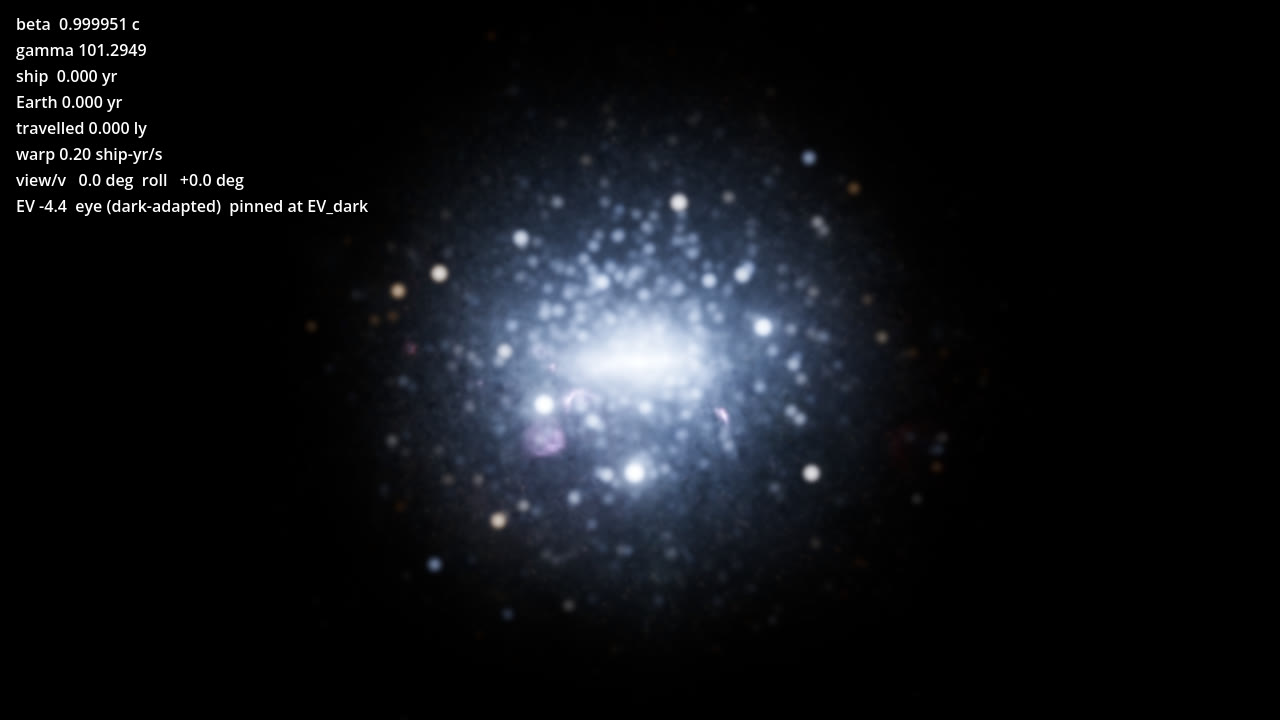
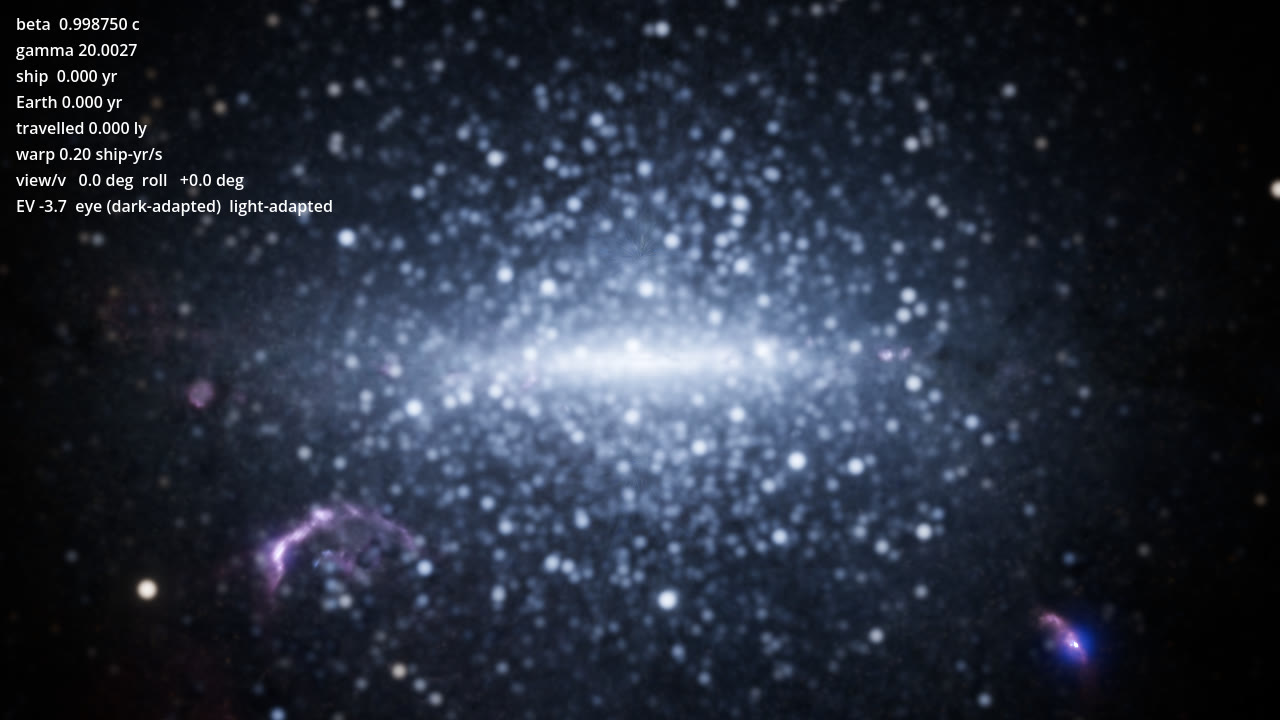
site: cmb clip regenerated from main (gamma 20 -> 707); M1.7/M1.8 no longer "in review"
- tools/site_movie.gd: the cmb sweep starts at gamma 20 now that the ring is
  fixed (#88); boost steps 10x finer (2e-9 ship-yr) so low-gamma frames no
  longer repeat. Rendered from main with make site-media CLIPS=cmb; every
  frame checked on contact sheets, no ring.
- media.json: new content-addressed cmb MP4/WebM in the public bucket; new
  poster. Gallery CMB stills re-cut from the same frames (gamma 275, 707).
- Landing, gallery, physics, intro, bubble and roadmap pages: M1.7 and M1.8
  shown as merged; "In review" pills removed.

Claude-Session: https://claude.ai/code/session_01Dvti2W94QfXDcYLoyzr7n3

diff --git a/website/src/pages/index.js b/website/src/pages/index.js
@@ -212,17 +212,17 @@ const SHOWCASE = [
     clip: 'cmb',
     icon: Sparkles,
     title: 'The cosmic background, set on fire',
-    status: <Pill kind="review">In review (M1.8)</Pill>,
+    status: <Pill kind="done">Runs today</Pill>,
     body: (
       <>
         <p>
           Push past γ 100 and something appears dead ahead that no star can explain: the 2.7 K
           microwave background, Doppler shifted into the visible. It shows faintly from γ ≈ 146,
-          glows orange at γ ≈ 295 (about 1,600 K) and burns at 3,853.7 K at γ 707, the cruise cap.
+          glows orange at γ ≈ 275 (1,500 K) and burns at 3,853.7 K at γ 707, the cruise cap.
         </p>
         <p className={styles.small}>
-          Forward view through a 20° lens, γ 100 to 707 on a committed journey near Sol. This clip
-          comes from the forward-CMB work in pull request #79, not yet merged.
+          Forward view through a 20° lens, γ 20 to 707 on a committed journey near Sol: first the
+          stars crowd into a shrinking blue ball, then the CMB takes over the bow.
         </p>
       </>
     ),
@@ -382,7 +382,7 @@ function BuiltWithAilang() {
 }
 
 function GalleryTeaser() {
-  const picks = ['sky-099c.jpg', 'cmb-gamma-orange.jpg', 'map-commit.jpg', 'milky-way-destarred.jpg', 'sky-091c.jpg', 'map-transit.jpg'];
+  const picks = ['sky-099c.jpg', 'cmb-gamma-275.jpg', 'map-commit.jpg', 'milky-way-destarred.jpg', 'sky-091c.jpg', 'map-transit.jpg'];
   const items = picks.map((f) => GALLERY.find((g) => g.file === f)).filter(Boolean);
   const base = useBaseUrl('/img/gallery/');
   return (
@@ -412,7 +412,7 @@ function GalleryTeaser() {
 
 const MILESTONES = [
   ['M0', 'Spike', 'done', 'AILANG sim + Godot starfield, tested relativity'],
-  ['M1', 'The relativistic sky', 'progress', '335k stars, Milky Way, exposure; CMB disc in review'],
+  ['M1', 'The relativistic sky', 'progress', '335k stars, Milky Way, exposure, forward CMB; performance bar left'],
   ['M2', 'The journey core', 'done', 'Planner, commit, two clocks, deterministic replay'],
   ['M3', 'Black holes', 'planned', 'Shadow, lensing, Einstein rings, checked against GR'],
   ['M4', 'First playable journey', 'planned', 'Plan, commit, live through it, arrive changed'],

diff --git a/website/src/data/gallery.js b/website/src/data/gallery.js
@@ -1,6 +1,6 @@
 // Gallery stills (static/img/gallery/). Every image is a real capture from the
-// game; captions say what produced it and what it shows. `status` marks
-// captures from work still in review, so nothing reads as shipped early.
+// game; captions say what produced it and what it shows. An optional `status`
+// marks captures from work still in review, so nothing reads as shipped early.
 const GALLERY = [
   {
     file: 'sky-rest.jpg',
@@ -31,20 +31,18 @@ const GALLERY = [
     group: 'sky',
   },
   {
-    file: 'cmb-gamma-orange.jpg',
-    title: 'The forward CMB disc at γ 295',
+    file: 'cmb-gamma-275.jpg',
+    title: 'The forward CMB disc at γ 275',
     caption:
-      'The 2.7 K cosmic microwave background, Doppler shifted to about 1,600 K straight ahead, glows orange in the bow. The eye has light-adapted (EV +1.7). From the forward-CMB work in review (M1.8, PR #79).',
+      'The 2.7 K cosmic microwave background, Doppler shifted to 1,500 K straight ahead (check value HB-67), glows orange in the bow among the last crowded stars. The eye has light-adapted (EV +0.2).',
     group: 'cmb',
-    status: 'In review',
   },
   {
     file: 'cmb-gamma-707.jpg',
     title: 'γ 707, the cruise cap: the CMB at 3,854 K',
     caption:
-      'At 0.999999c the forward CMB is a 3,853.7 K blackbody (check value HB-63), brighter than every star around it. In review (M1.8, PR #79).',
+      'At 0.999999c the forward CMB is a 3,853.7 K blackbody (check value HB-63), brighter than every star around it.',
     group: 'cmb',
-    status: 'In review',
   },
   {
     file: 'milky-way-destarred.jpg',
@@ -85,9 +83,8 @@ const GALLERY = [
     file: 'map-overview.jpg',
     title: 'The neighbourhood, from the real catalogues',
     caption:
-      'The galaxy map drawn from the binary catalogue tiers, Sol at the centre. From the catalogue switch in review (M1.7, PR #81).',
+      'The galaxy map drawn from the binary catalogue tiers, Sol at the centre (the M1.7 catalogue switch).',
     group: 'map',
-    status: 'In review',
   },
 ];
 

diff --git a/website/src/pages/gallery.js b/website/src/pages/gallery.js
@@ -11,7 +11,7 @@ import styles from './gallery.module.css';
 const CLIPS = [
   {name: 'voyage', title: 'Rest to 0.99c, looking forward', text: 'A 1 g burn through the AILANG simulation, rapidity eased over 18 s. 24 s loop.'},
   {name: 'lookaround', title: 'One full turn at 0.99c', text: 'Bow, beam, stern and back at γ 7.09: the bright window ahead and the dark behind. 20 s loop.'},
-  {name: 'cmb', title: 'The forward CMB disc, γ 100 to 707', text: '20° lens, on a committed journey near Sol. From pull request #79 (M1.8, in review). 20 s loop.'},
+  {name: 'cmb', title: 'The forward CMB disc, γ 20 to 707', text: '20° lens, on a committed journey near Sol: the stars crowd into a shrinking ball, then the CMB warms from deep red to near white. 20 s loop.'},
   {name: 'map', title: 'Galaxy map, cruise slider 0.9c to the cap', text: 'The planner panel recomputed by the simulation every tick as the camera orbits Sol and α Centauri. 24 s loop.'},
 ];
 
@@ -46,9 +46,8 @@ export default function Gallery() {
           <h1 className={styles.title}>Gallery</h1>
           <p className={styles.lead}>
             Every image and clip here is a capture from the game: the Godot renderer, driven by the
-            AILANG simulation. Captions say what produced each one. Captures marked{' '}
-            <span className="sv-status sv-status--review">In review</span> come from work that has
-            not merged yet. See the <Link to="/docs/roadmap">roadmap</Link>.
+            AILANG simulation. Captions say what produced each one, and the <Link to="/docs/roadmap">roadmap</Link> says
+            what is built and what is planned.
           </p>
         </div>
       </header>

diff --git a/website/docs/roadmap.md b/website/docs/roadmap.md
@@ -34,8 +34,8 @@ orientation.
 | The big catalogue: 335,157 stars instanced on the GPU, float64 rebasing (M1.3) | <span className="sv-status sv-status--done">Done</span> |
 | Milky Way background: NOIRLab panorama, destarred in AILANG, Doppler shifted per texel (M1.4) | <span className="sv-status sv-status--done">Done</span> |
 | Photometric exposure: dark-adapted eye, honest HUD, labelled aids (M1.5a) | <span className="sv-status sv-status--done">Done</span> |
-| Galaxy map and goldens on the catalogue tiers (M1.7, [PR #81](https://github.com/sunholo-data/stapledons-godot/pull/81)) | <span className="sv-status sv-status--review">In review</span> |
-| Forward CMB disc (M1.8, [PR #79](https://github.com/sunholo-data/stapledons-godot/pull/79)) | <span className="sv-status sv-status--review">In review</span> |
+| Galaxy map and goldens on the catalogue tiers (M1.7, [PR #81](https://github.com/sunholo-data/stapledons-godot/pull/81)) | <span className="sv-status sv-status--done">Done</span> |
+| Forward CMB disc (M1.8, [PR #79](https://github.com/sunholo-data/stapledons-godot/pull/79); ring fix [#88](https://github.com/sunholo-data/stapledons-godot/pull/88)) | <span className="sv-status sv-status--done">Done</span> |
 | 60 fps at 1440p with the full catalogue and background, on an M4 Max | Acceptance |
 
 ## M2: The journey core <span className="sv-status sv-status--done">Done</span>

diff --git a/website/README.md b/website/README.md
@@ -86,9 +86,9 @@ make site-media-publish            # maintainers (gcloud): upload --no-clobber, 
 | `voyage` | forward view, rest → 0.99c at 1 g | |
 | `lookaround` | a full turn in yaw at 0.99c | |
 | `map` | galaxy map orbit, cruise slider 0.9c → cap | rendered at 1600×900, the `--map-capture` size |
-| `cmb` | forward, 20° lens, γ 100 → 707 | needs the forward CMB disc (M1.8, PR #79); on a tree without it the clip shows stars only |
+| `cmb` | forward, 20° lens, γ 20 → 707 | the forward CMB disc (M1.8, with the #88 ring fix) |
 
-The published `cmb` clip was rendered from the PR #79 tree. Encoding needs `ffmpeg` with libx264
+All published clips are rendered from `main`. Encoding needs `ffmpeg` with libx264
 and libvpx (`brew install ffmpeg`, or `FFMPEG=$(npx -y ffmpeg-static)`).
 
 Look at every frame you publish (contact sheets: `ffmpeg -i renders/site/frames/CLIP/f%05d.png

diff --git a/website/docs/intro.md b/website/docs/intro.md
@@ -51,8 +51,8 @@ The game is **pre-alpha**. Release 1 builds the foundations, and is partly done:
 - **Running today:** the relativistic sky (335,157 real stars over the Milky Way, aberration,
   Doppler colour and beaming, a photometric naked-eye exposure), and the journey core (the
   galaxy map, the planner, the irreversible commit, the two clocks, deterministic replay).
-- **In review:** the forward cosmic-background disc at high γ, and the catalogue switch for
-  the galaxy map.
+- **Also merged:** the forward cosmic-background disc at high γ (M1.8), and the galaxy map on
+  the binary catalogue tiers (M1.7).
 - **Planned for Release 1:** black holes rendered to general relativity (M3) and the first
   playable journey with a placeholder ship deck (M4).
 - **The full vision, after Release 1:** a galaxy simulation of civilisations that rise, merge

diff --git a/website/docs/higgs-bubble.md b/website/docs/higgs-bubble.md
@@ -43,7 +43,7 @@ thing that was invented.
 | **Tides are not shielded.** The wall stops particles, not curvature; near a small black hole the tide across 100 m is lethal | Gravity is geometry | Gaia BH1, at 10 r_s: 1.14 × 10⁶ g (HB-72) |
 
 Not every row runs in the game yet: the planner, the energy ledger and the commit rule do (M2),
-the forward CMB is in review (M1.8), and black holes are planned (M3). See the
+the forward CMB renders (M1.8), and black holes are planned (M3). See the
 [roadmap](roadmap.md).
 
 ## Why the strictness
